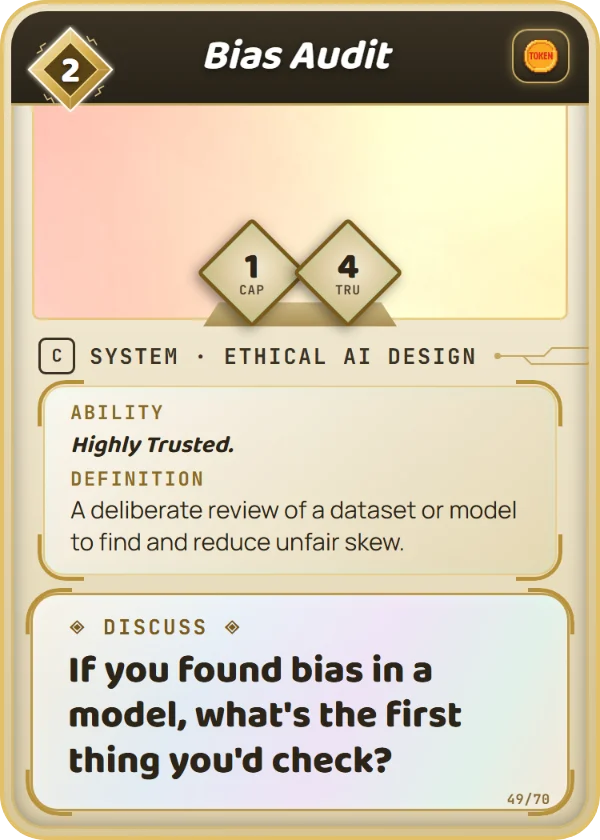
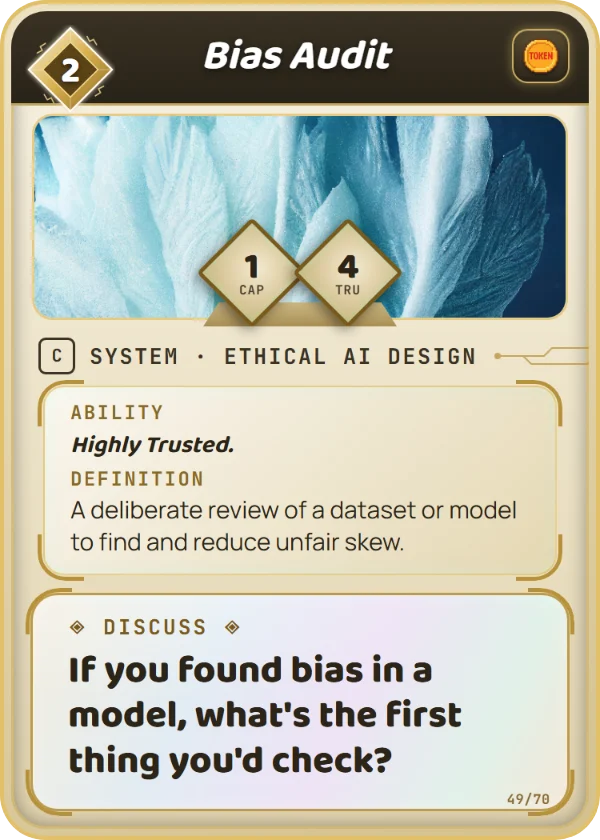
Add artwork to cards 49-50 (Bias Audit, Model Card)
Rebuilt proofs and refreshed card images for the website. The source
artwork stays local in design/icons/.

Changed region(s): [[0.03, 0.1238, 0.96, 0.4024]]

diff --git a/design/frame-v2/proof-model-card-ethics.html b/design/frame-v2/proof-model-card-ethics.html
@@ -127,7 +127,7 @@
 <body><div class="stage"><div class="v2 nostats" style="--edge:#e2c06a;--outerA:#efe5cb;--outerB:#d3c292;--body1:#f8f2e2;--body2:#e1d3ae;--head:#3a3224;--panel1:rgba(255,255,255,.72);--panel2:rgba(228,214,176,.85);--label:#8a6a22;--bracket:#b8913a;--circuit:#b8913a;--statA:#f4ead0;--statB:#cdb680;--statBorder:#7a5a1c;--ledgeA:#cdb884;--ledgeB:#a88f55;--discussBg:linear-gradient(115deg,#f4eedf 0%,#e2ecf4 32%,#efe3f6 58%,#e1f2ea 82%,#f4e7d6 100%);--discussBorder:rgba(184,145,58,.9);--discussBracket:#b8913a;--discussTag:#7a5a1c;--discussInk:#2b2418;--discussShadow:none;--ink:#2b2418;--typeInk:#3a3224;--headInk:#ffffff;--statInk:#2b2418;--typeGlass:rgba(255,250,236,.72);--iconHalo:rgba(255,255,255,.75);--art:url('../backgrounds/selected/ethics.jpg')">
   <div class="v2-body">
     <div class="v2-art"></div>
-    
+    <div class="v2-icon photo"><img src="../icons/model-card.png" alt=""></div>
     <header class="v2-head"><h2>Model Card</h2></header>
     <div class="v2-gem diamond"><svg viewBox="0 0 140 140" width="140" height="140" aria-hidden="true"><defs>
     <linearGradient id="gAethics" x1="0" y1="0" x2="1" y2="1"><stop offset="0" stop-color="#fff7dc"/><stop offset=".5" stop-color="#d8b04f"/><stop offset="1" stop-color="#8a631e"/></linearGradient>

diff --git a/design/frame-v2/proof-bias-audit-ethics.html b/design/frame-v2/proof-bias-audit-ethics.html
@@ -127,7 +127,7 @@
 <body><div class="stage"><div class="v2" style="--edge:#e2c06a;--outerA:#efe5cb;--outerB:#d3c292;--body1:#f8f2e2;--body2:#e1d3ae;--head:#3a3224;--panel1:rgba(255,255,255,.72);--panel2:rgba(228,214,176,.85);--label:#8a6a22;--bracket:#b8913a;--circuit:#b8913a;--statA:#f4ead0;--statB:#cdb680;--statBorder:#7a5a1c;--ledgeA:#cdb884;--ledgeB:#a88f55;--discussBg:linear-gradient(115deg,#f4eedf 0%,#e2ecf4 32%,#efe3f6 58%,#e1f2ea 82%,#f4e7d6 100%);--discussBorder:rgba(184,145,58,.9);--discussBracket:#b8913a;--discussTag:#7a5a1c;--discussInk:#2b2418;--discussShadow:none;--ink:#2b2418;--typeInk:#3a3224;--headInk:#ffffff;--statInk:#2b2418;--typeGlass:rgba(255,250,236,.72);--iconHalo:rgba(255,255,255,.75);--art:url('../backgrounds/selected/ethics.jpg')">
   <div class="v2-body">
     <div class="v2-art"></div>
-    
+    <div class="v2-icon photo"><img src="../icons/bias-audit.png" alt=""></div>
     <header class="v2-head"><h2>Bias Audit</h2></header>
     <div class="v2-gem diamond"><svg viewBox="0 0 140 140" width="140" height="140" aria-hidden="true"><defs>
     <linearGradient id="gAethics" x1="0" y1="0" x2="1" y2="1"><stop offset="0" stop-color="#fff7dc"/><stop offset=".5" stop-color="#d8b04f"/><stop offset="1" stop-color="#8a631e"/></linearGradient>
